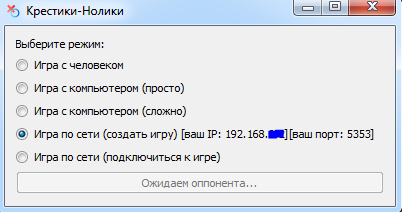
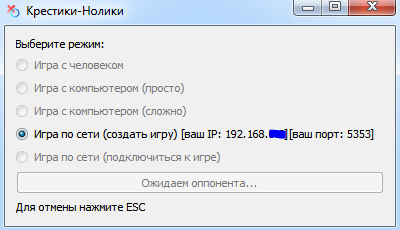
fixed start button bug + added how to exit host note + updated screenshot

Changed region(s): [[0.0, 0.0, 1.0, 1.0], [0.03, 0.2547, 0.33, 0.3396], [0.03, 0.1698, 0.27, 0.2264]]

diff --git a/Source/ModeWindow.cpp b/Source/ModeWindow.cpp
@@ -14,9 +14,8 @@
 #include <QNetworkInterface>
 
 // TODO:
-// - метод для получения IPv4 текущего компа
-QHostAddress add;
 // - при создании игры вывести сообщение как отменить ожидание подключения
+// - включить кнопку после отмены ожидания подключения
 
 //=======================================================================
 ModeWindow::ModeWindow(QWidget* parent, uint16_t port)
@@ -34,6 +33,7 @@ ModeWindow::ModeWindow(QWidget* parent, uint16_t port)
     labelPort = new QLabel(tr("Адрес порта:"), this);
     linePort = new QLineEdit(this);
     pushButtonStart = new QPushButton(tr("Начать"), this);
+    labelPushESCToExit = new QLabel(tr("Для отмены нажмите ESC"), this);
     spacer = new QSpacerItem(0, 0, QSizePolicy::Minimum, QSizePolicy::Expanding);
 
     vBoxLayout = new QVBoxLayout(this);
@@ -50,6 +50,7 @@ ModeWindow::ModeWindow(QWidget* parent, uint16_t port)
     vBoxLayout->addWidget(labelPort);
     vBoxLayout->addWidget(linePort);
     vBoxLayout->addWidget(pushButtonStart);
+    vBoxLayout->addWidget(labelPushESCToExit);
     vBoxLayout->addItem(spacer);
 
 
@@ -57,10 +58,11 @@ ModeWindow::ModeWindow(QWidget* parent, uint16_t port)
     lineIPAddress->hide();
     labelPort->hide();
     linePort->hide();
+    labelPushESCToExit->hide();
 
     setMinimumSize(390, 180);
 
-    // TODO: get our sIPv4
+    getOuterIPv4Address();
 
     connect(pushButtonStart, SIGNAL(clicked()),
             this, SLOT(pushButtonStart_clicked())
@@ -102,12 +104,17 @@ void ModeWindow::pushButtonStart_clicked()
 
     else if (radioButtonPlayWithHumanHost->isChecked())
     {
+        setAllRadioButtonsEnabled(false);
+        labelPushESCToExit->show();
+        setFixedSize(390, 200);
+
+
         // if user choose join, than host, or vice versa
         if (client_server != nullptr)
             delete client_server;
 
         // позже нужно будет записать IP и порт подключившегося
-        client_server = new ClientServer(add /*QHostAddress::LocalHost*/, port,
+        client_server = new ClientServer(outer_IPv4_address, port,
                                          QUdpSocket::DefaultForPlatform, this);
 
         // когда получаем специальную датаграмму - начинаем игру
@@ -130,7 +137,7 @@ void ModeWindow::pushButtonStart_clicked()
         pushButtonStart->setText(tr("Начать"));
         pushButtonStart->setEnabled(true);
 
-        client_server = new ClientServer(add /*QHostAddress::LocalHost*/, port,
+        client_server = new ClientServer(outer_IPv4_address, port,
                                          QUdpSocket::DefaultForPlatform, this);
         // ip and port checking, trying to join
         if (lineIPAddress->text().isEmpty() || linePort->text().isEmpty())
@@ -197,6 +204,9 @@ void ModeWindow::waitingForOpponent()
         pushButtonStart->setEnabled(true);
         radioButtonPlayWithHumanHost->setText(tr("Игра по сети (создать игру)"));
         opponent_joined = esc_pressed = false;
+        setAllRadioButtonsEnabled(true);
+        labelPushESCToExit->hide();
+        setFixedSize(390, 180);
         call = -1;
         timer->stop();
         delete timer;
@@ -206,18 +216,11 @@ void ModeWindow::waitingForOpponent()
     if (call == -1)
     {
         pushButtonStart->setEnabled(false);
-        // finding out and outputting local_IPv4 address
-        const QHostAddress &localhost = QHostAddress(QHostAddress::LocalHost);
-        foreach (const QHostAddress &address, QNetworkInterface::allAddresses())
-        {
-            if (address.protocol() == QAbstractSocket::IPv4Protocol && address != localhost){
-                radioButtonPlayWithHumanHost->setText(tr(QString("Игра по сети (создать игру) [ваш IP: %1][ваш порт: %2]")
-                                              .arg(address.toString(), 0, 10).arg(port, 0, 10)
-                                                         .toStdString().c_str()
-                                              ));
-            add = address;}
-        }
 
+        radioButtonPlayWithHumanHost->setText(tr(QString("Игра по сети (создать игру) [ваш IP: %1][ваш порт: %2]")
+                                                     .arg(outer_IPv4_address.toString(), 0, 10).arg(port, 0, 10)
+                                                     .toStdString().c_str()
+                                                 ));
         ++call;
     }
     else if (call == 0)
@@ -235,6 +238,28 @@ void ModeWindow::waitingForOpponent()
         pushButtonStart->setText(tr("Ожидаем оппонента..."));
         call = 0;
     }
+}
+//=======================================================================
+void ModeWindow::getOuterIPv4Address()
+{
+    QHostAddress localhost(QHostAddress::LocalHost);
+    foreach (QHostAddress address, QNetworkInterface::allAddresses())
+    {
+        if (address.protocol() == QAbstractSocket::IPv4Protocol && address != localhost)
+        {
+            outer_IPv4_address = address;
+            break;
+        }
+    }
+}
+//=======================================================================
+void ModeWindow::setAllRadioButtonsEnabled(bool enabled)
+{
+    radioButtonPlayWithHuman->setEnabled(enabled);
+    radioButtonPlayWithEasyCPU->setEnabled(enabled);
+    radioButtonPlayWithHardCPU->setEnabled(enabled);
+    //radioButtonPlayWithHumanHost->setEnabled(enabled); // not necessary to unable
+    radioButtonPlayWithHumanJoin->setEnabled(enabled);
 }
 //=======================================================================
 ModeWindow::~ModeWindow()

diff --git a/Source/ModeWindow.h b/Source/ModeWindow.h
@@ -44,14 +44,19 @@ private:
     QLineEdit* linePort                        = nullptr;
 
     QPushButton* pushButtonStart               = nullptr;
+    QLabel* labelPushESCToExit                 = nullptr;
     QVBoxLayout* vBoxLayout                    = nullptr;
 
     ClientServer* client_server                = nullptr;
     bool opponent_joined                       = false;
     bool esc_pressed                           = false;
     QTimer* timer                              = nullptr;
+
+    QHostAddress outer_IPv4_address;
     uint16_t port;
 
+    void getOuterIPv4Address();
+    void setAllRadioButtonsEnabled(bool enabled);
 
 protected:
     virtual void keyPressEvent(QKeyEvent* event) override;

diff --git a/Source/MainWindow.cpp b/Source/MainWindow.cpp
@@ -5,8 +5,6 @@
 #include <QMessageBox>
 #include <QCloseEvent>
 
-// TODO: в сетевом режиме добавить сообщение о том, что противник думает
-
 //=======================================================================
 MainWindow::MainWindow(Mode mode, ClientServer* client_server, QWidget* parent)
     : QMainWindow(parent),
